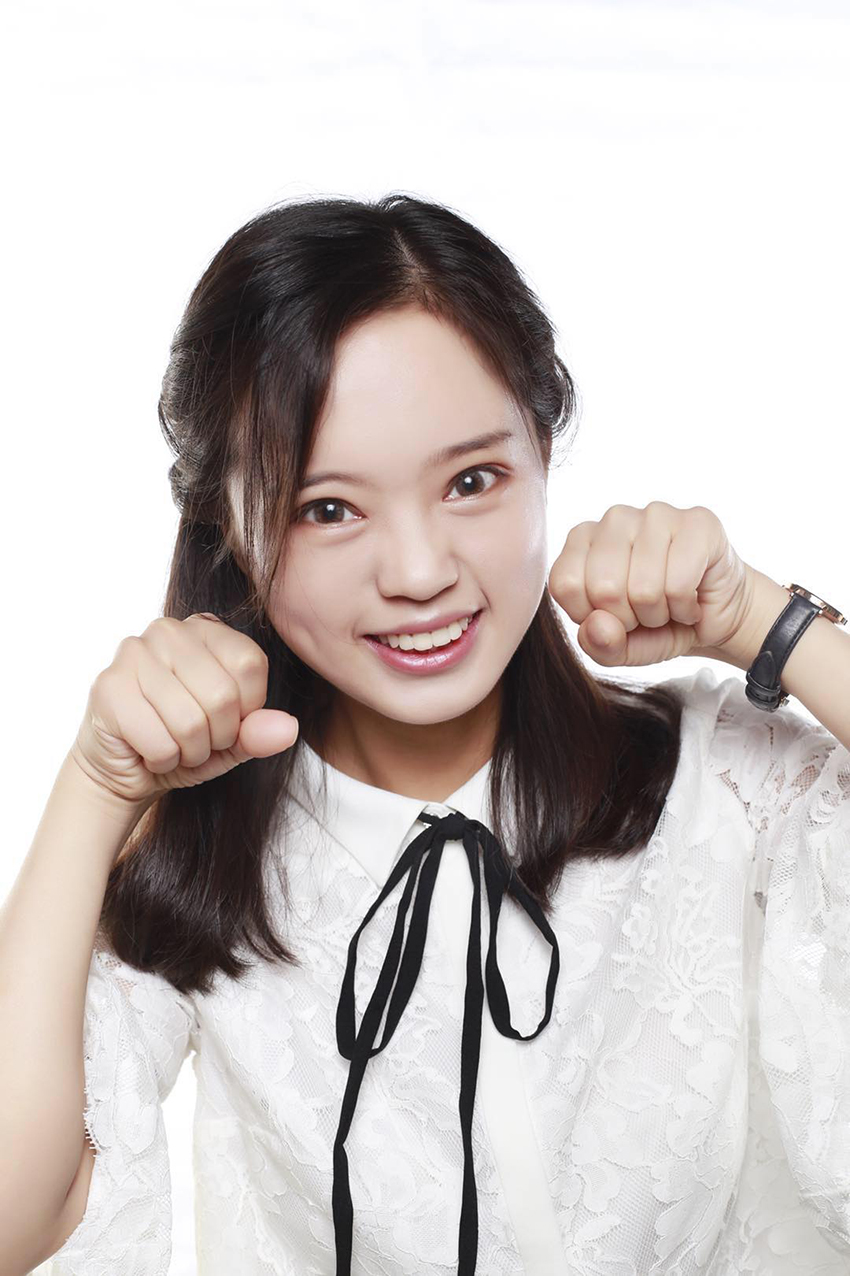
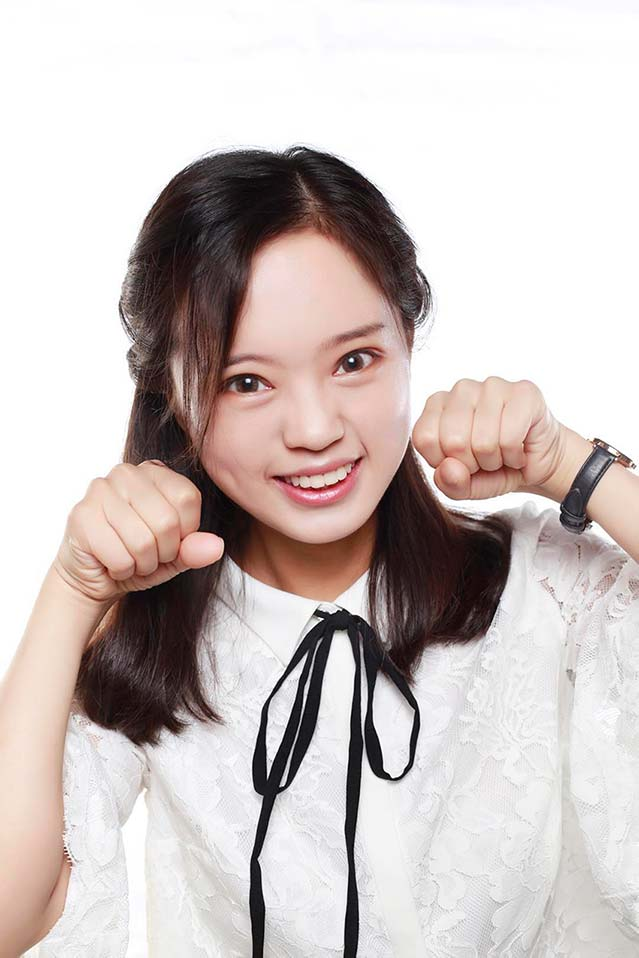
modify image size

diff --git a/job/index.html b/job/index.html
@@ -12,7 +12,7 @@ title: 2019秋季校园招聘
         <span class="icon-bar"></span>
         <span class="icon-bar"></span>
       </button>
-      <a class="navbar-brand" href="#">
+      <a class="navbar-brand" href="/">
         <div class="header-logo">
           <img src="{{ site.baseurl }}/public/image/logo/logo_write_cn.png">
         </div>
